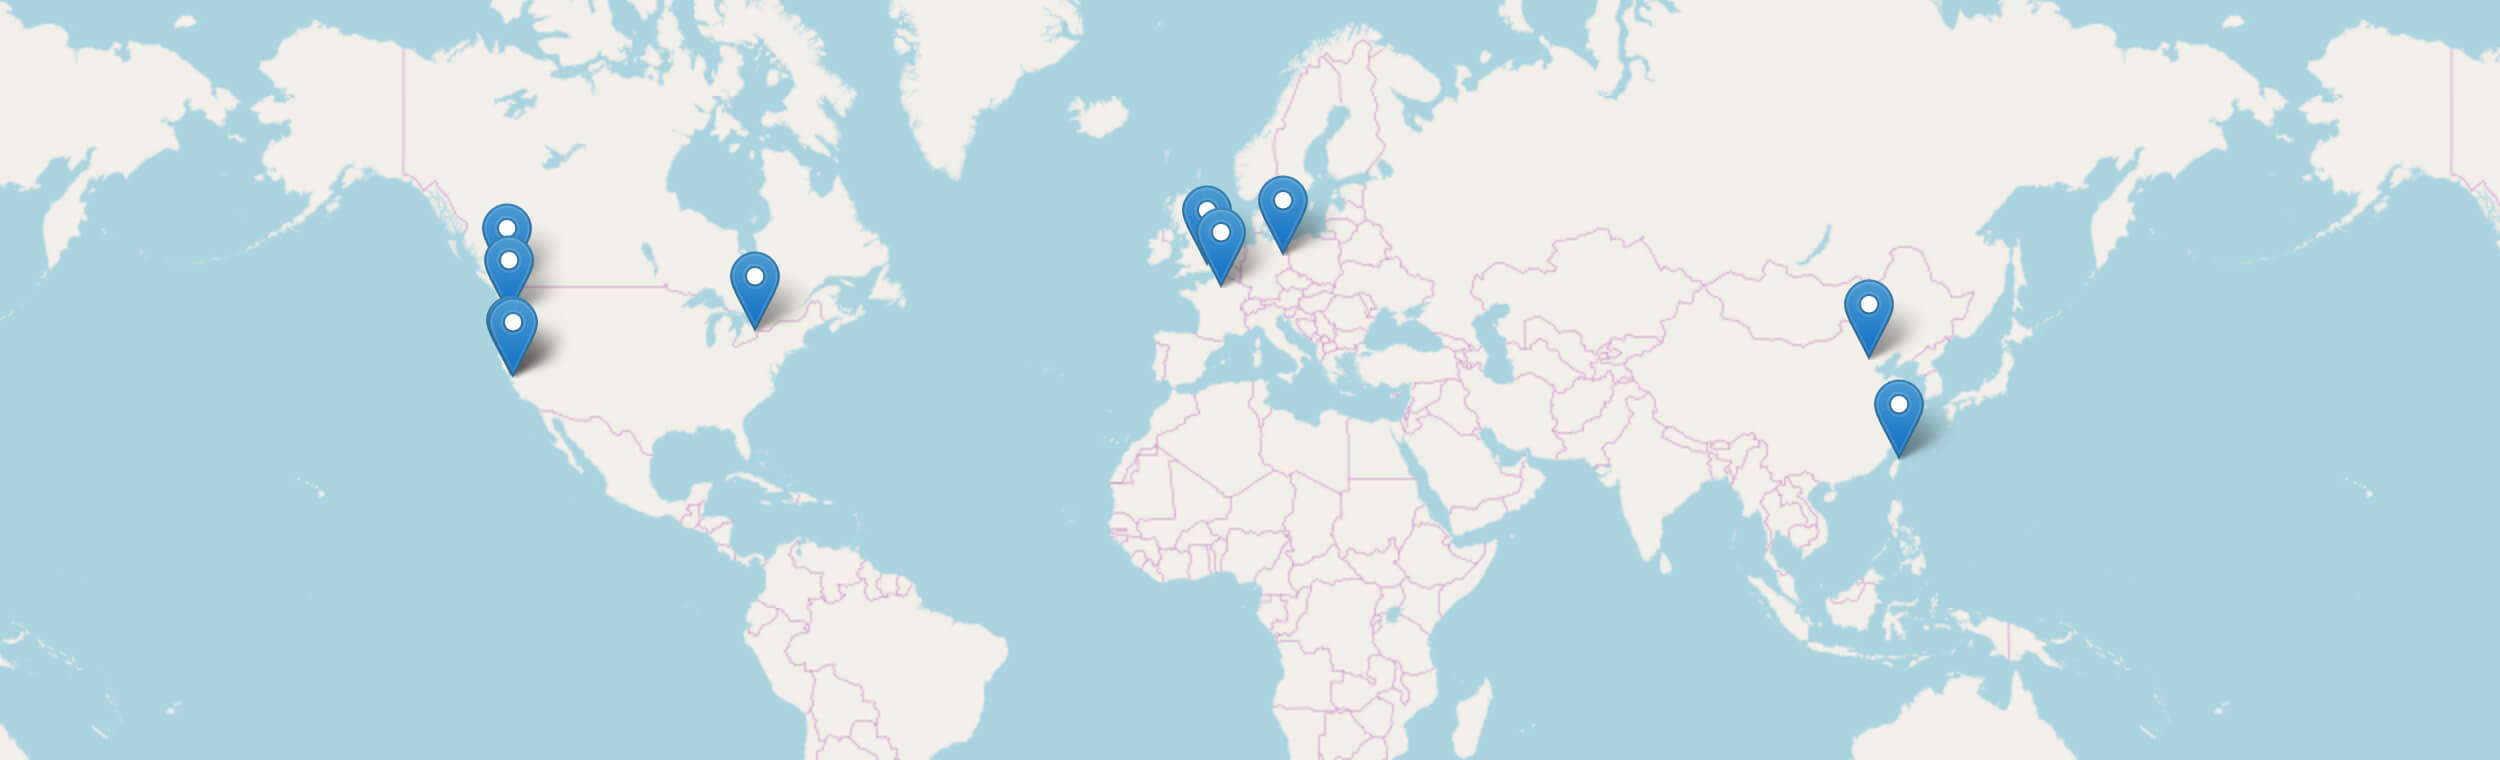
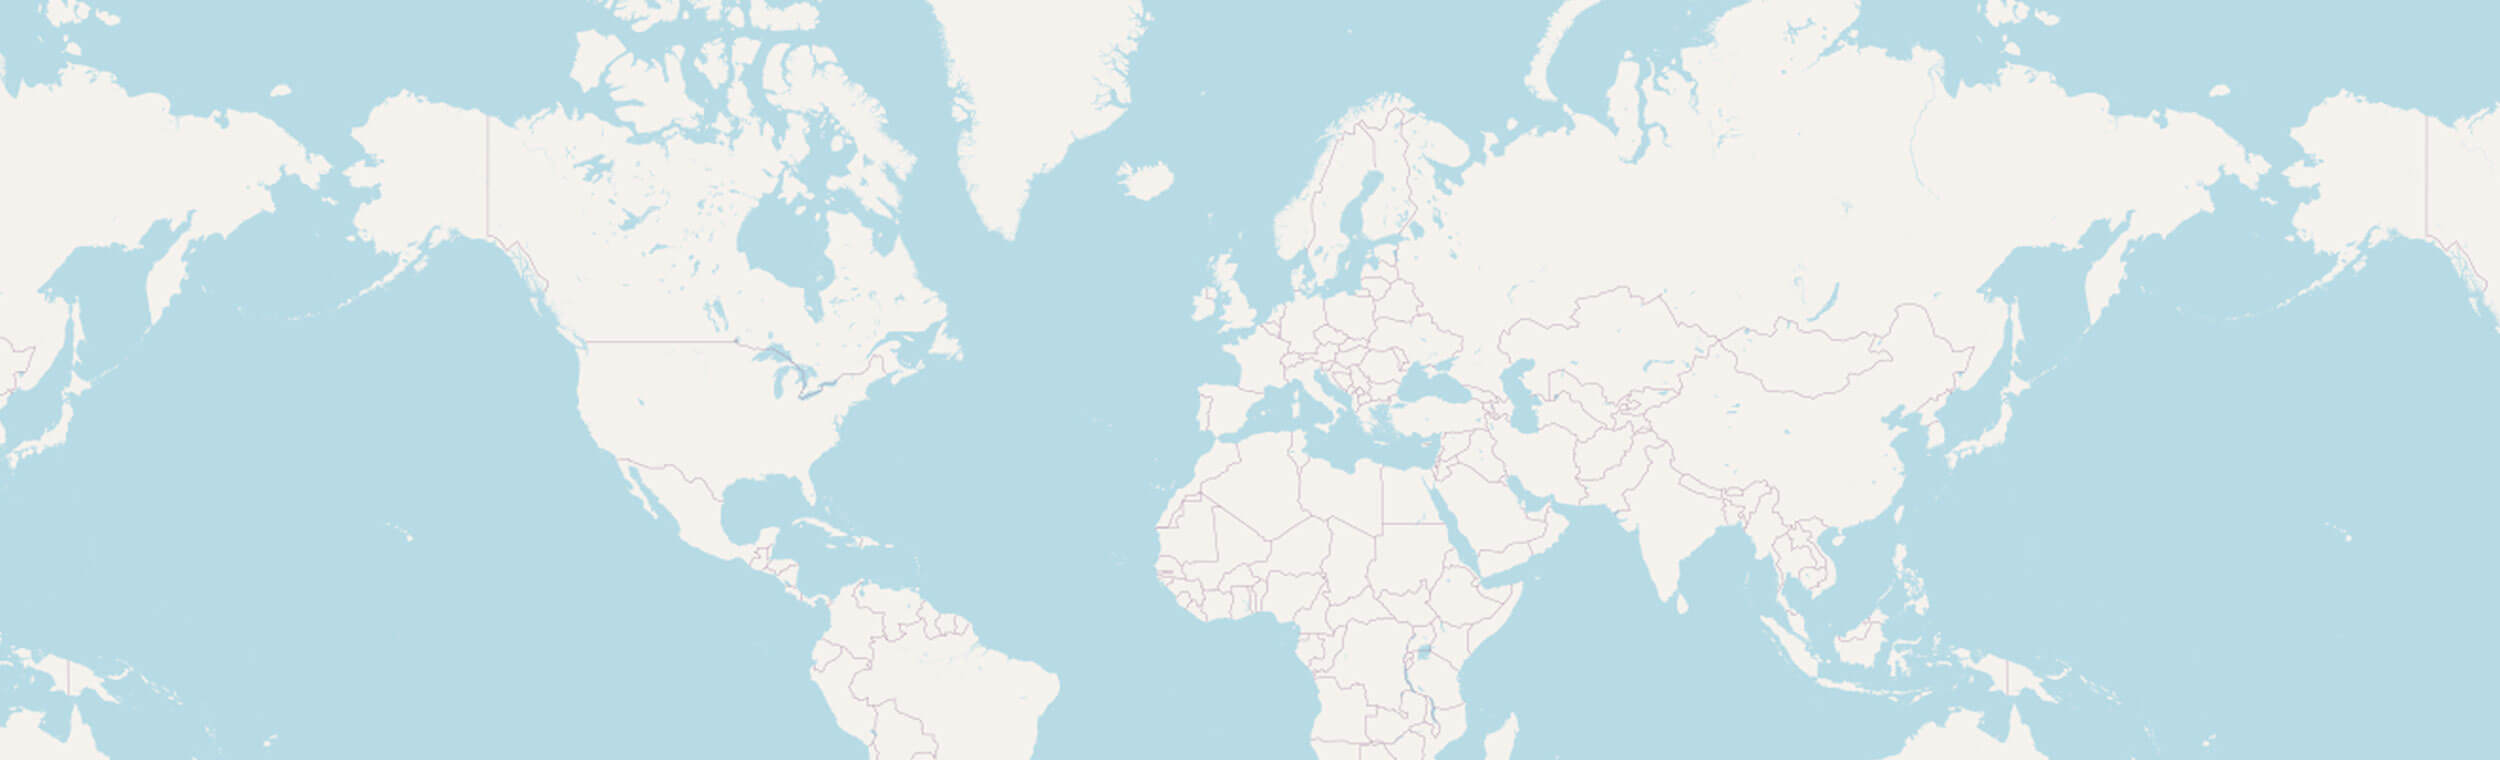
Remove outdated spaces [fix #9915]
Also fix #9348 - narrow the page so the maps fit

diff --git a/bedrock/mozorg/templates/mozorg/contact/spaces/includes/nav.html b/bedrock/mozorg/templates/mozorg/contact/spaces/includes/nav.html
@@ -13,8 +13,8 @@
   <section id="nav-spaces" class="mzp-c-sidemenu-main" id="sidebar-menu">
     <ul>
       <li>
-        <h4 class="mzp-c-sidemenu-title {% if current == 'mountain-view' %}mzp-is-current{% endif %}" data-id="mountain-view">
-          <a href="{{ url('mozorg.contact.spaces.mountain-view') }}">{{ _('Mountain View') }}</a>
+        <h4 class="mzp-c-sidemenu-title {% if current == 'san-francisco' %}mzp-is-current{% endif %}" data-id="san-francisco">
+          <a href="{{ url('mozorg.contact.spaces.san-francisco') }}">{{ _('San Francisco') }}</a>
         </h4>
       </li>
       <li>
@@ -28,11 +28,6 @@
         </h4>
       </li>
       <li>
-        <h4 class="mzp-c-sidemenu-title {% if current == 'london' %}mzp-is-current{% endif %}" data-id="london">
-          <a href="{{ url('mozorg.contact.spaces.london') }}">{{ _('London') }}</a>
-        </h4>
-      </li>
-      <li>
         <h4 class="mzp-c-sidemenu-title {% if current == 'paris' %}mzp-is-current{% endif %}" data-id="paris">
           <a href="{{ url('mozorg.contact.spaces.paris') }}">{{ _('Paris') }}</a>
         </h4>
@@ -43,23 +38,8 @@
         </h4>
       </li>
       <li>
-        <h4 class="mzp-c-sidemenu-title {% if current == 'san-francisco' %}mzp-is-current{% endif %}" data-id="san-francisco">
-          <a href="{{ url('mozorg.contact.spaces.san-francisco') }}">{{ _('San Francisco') }}</a>
-        </h4>
-      </li>
-      <li>
-        <h4 class="mzp-c-sidemenu-title {% if current == 'taipei' %}mzp-is-current{% endif %}" data-id="taipei">
-          <a href="{{ url('mozorg.contact.spaces.taipei') }}">{{ _('Taipei') }}</a>
-        </h4>
-      </li>
-      <li>
         <h4 class="mzp-c-sidemenu-title {% if current == 'toronto' %}mzp-is-current{% endif %}" data-id="toronto">
           <a href="{{ url('mozorg.contact.spaces.toronto') }}">{{ _('Toronto') }}</a>
-        </h4>
-      </li>
-      <li>
-        <h4 class="mzp-c-sidemenu-title {% if current == 'vancouver' %}mzp-is-current{% endif %}" data-id="vancouver">
-          <a href="{{ url('mozorg.contact.spaces.vancouver') }}">{{ _('Vancouver') }}</a>
         </h4>
       </li>
     </ul>

diff --git a/bedrock/mozorg/templates/mozorg/contact/contact-base.html b/bedrock/mozorg/templates/mozorg/contact/contact-base.html
@@ -16,7 +16,7 @@
 {% block content %}
 
 <main id="main-content">
-  <div class="mzp-l-content">
+  <div class="mzp-l-content mzp-t-content-xl">
     <header class="page-head">
       <h1 class="page-title"><span>{{ _('Where is Mozilla?') }}</span></h1>
       <p class="help">

diff --git a/bedrock/mozorg/urls.py b/bedrock/mozorg/urls.py
@@ -89,16 +89,12 @@ urlpatterns = (
 
     page('contact', 'mozorg/contact/contact-landing.html'),
     page('contact/spaces', 'mozorg/contact/spaces/spaces-landing.html'),
-    page('contact/spaces/mountain-view', 'mozorg/contact/spaces/mountain-view.html'),
     page('contact/spaces/beijing', 'mozorg/contact/spaces/beijing.html'),
     page('contact/spaces/berlin', 'mozorg/contact/spaces/berlin.html'),
-    page('contact/spaces/london', 'mozorg/contact/spaces/london.html'),
     page('contact/spaces/paris', 'mozorg/contact/spaces/paris.html'),
     page('contact/spaces/portland', 'mozorg/contact/spaces/portland.html'),
     page('contact/spaces/san-francisco', 'mozorg/contact/spaces/san-francisco.html'),
-    page('contact/spaces/taipei', 'mozorg/contact/spaces/taipei.html'),
     page('contact/spaces/toronto', 'mozorg/contact/spaces/toronto.html'),
-    page('contact/spaces/vancouver', 'mozorg/contact/spaces/vancouver.html'),
 
     page('MPL', 'mozorg/mpl/index.html'),
     page('MPL/historical', 'mozorg/mpl/historical.html'),

diff --git a/bedrock/mozorg/redirects.py b/bedrock/mozorg/redirects.py
@@ -426,7 +426,7 @@ redirectpatterns = (
     redirect(r'^contribute/local/southpole\.html$', '/contact/communities/antarctica/'),
 
     # bug 1393622
-    redirect(r'contact/spaces/(?:auckland|tokyo)/?$', '/contact/spaces/'),
+    redirect(r'contact/spaces/(?:auckland|tokyo|taipei|london|mountain-view|vancouver)/?$', '/contact/spaces/'),
 
     redirect('^contribute/buttons/', 'https://affiliates.mozilla.org/'),
 
